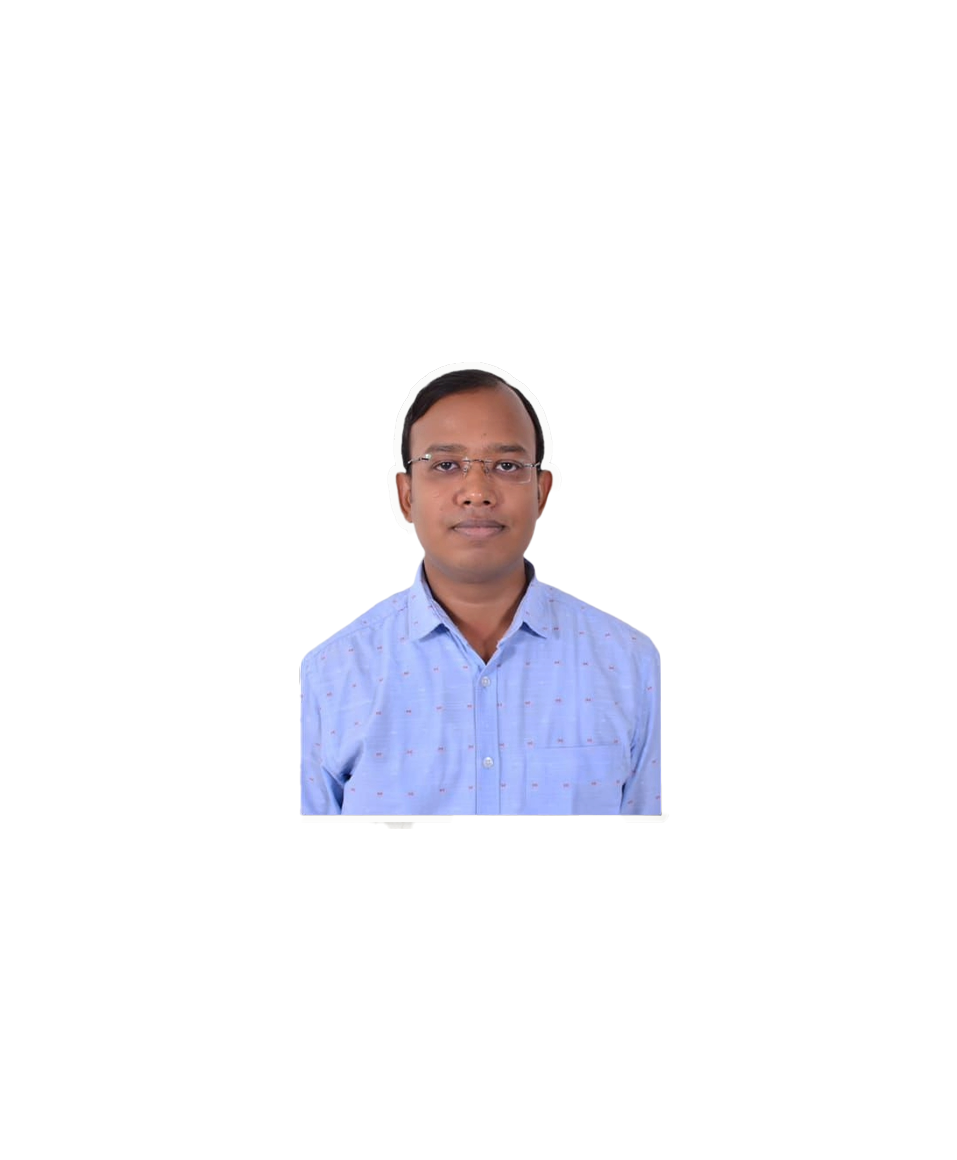
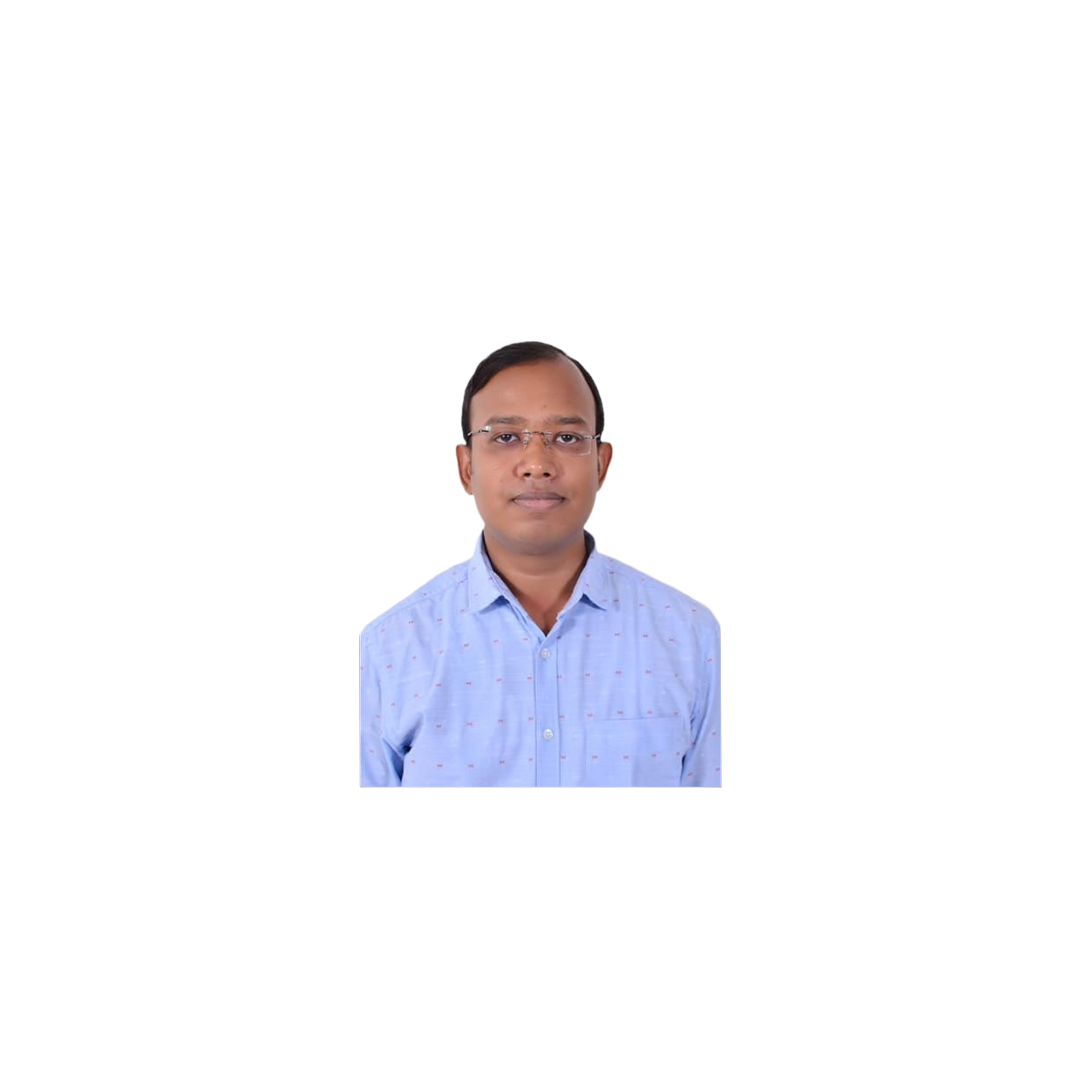
Branch Councellors Cutout Added

Changed region(s): [[0.303, 0.3056, 0.697, 0.7333]]

diff --git a/src/components/team/data/teamData.js b/src/components/team/data/teamData.js
@@ -22,7 +22,7 @@ import aanya from "./Team posters/aanya.png";
 // Cutout photos (person only, transparent background)
 import rayansh_o from "./Team posters/rayansh_o.png";
 import abhay_o from "./Team posters/abhay sir_o.png";
-import adhirath_o from "./Team posters/bani_o.png";
+import adhirath_o from "./Team posters/adhirath sir_o.png";
 import bani_o from "./Team posters/bani_o.png";
 import ansh_o from "./Team posters/ansh_o.png";
 import anish_o from "./Team posters/anish_o.png";
